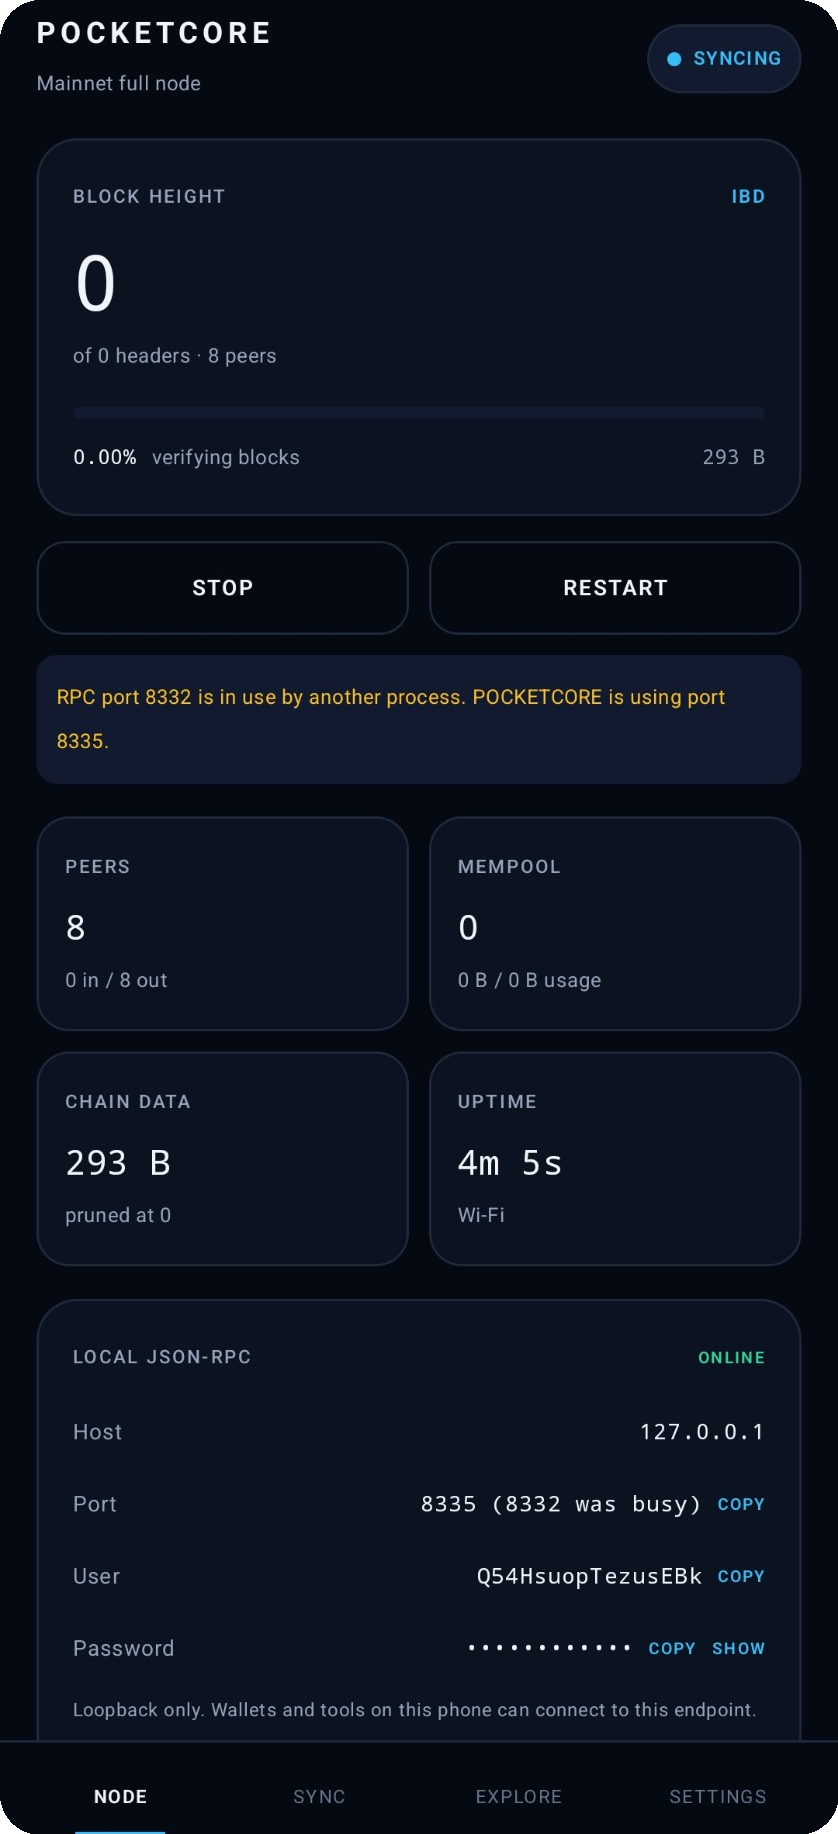
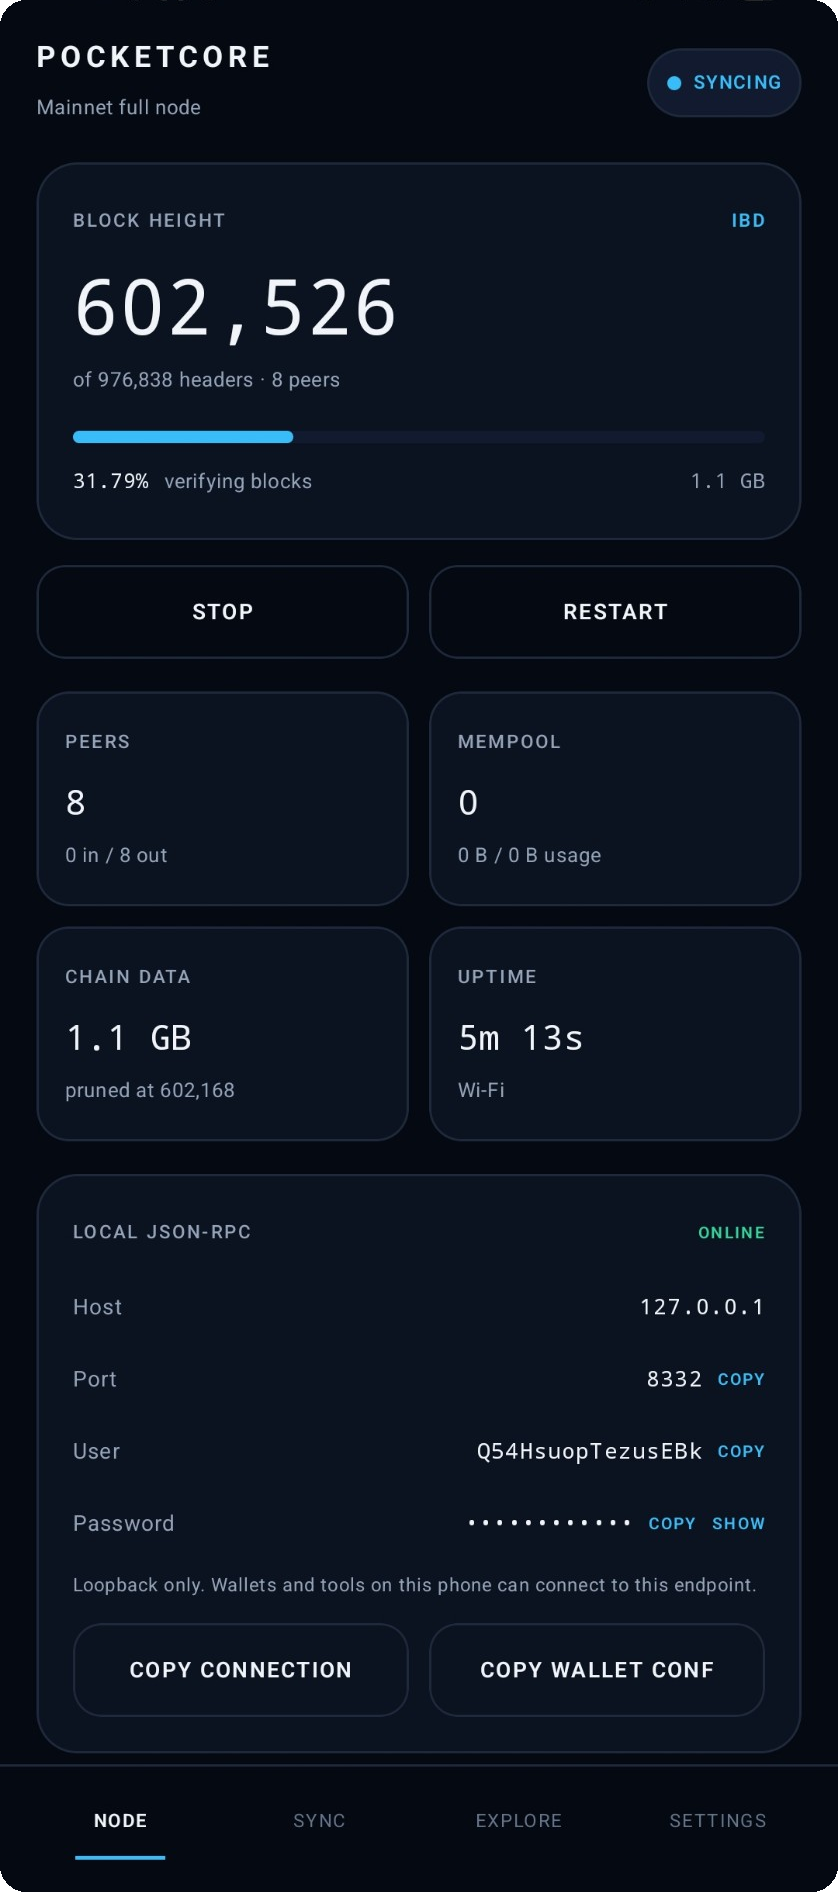
Refresh README screens from a live device capture
- docs/logo.png crops the tesseract master to a 9% margin, so the mark fills the
  tile instead of sitting at half size inside the app-icon field; the page draws
  it at 150 px and the hero screenshot at 300 px.
- The four tab screenshots come from a real sync in progress: the status bar and
  the three-button navigation bar are cut away, corners rounded, and the NODE
  shot (602,526 / 31.79% / port 8332 / ONLINE) replaces the older
  0-of-0-headers preview.
- New Screens section places NODE, SYNC, EXPLORE and SETTINGS side by side under
  captions, with the colorized status card (31.64% - Block #601,537 Syncing)
  below them. The Korean AM/PM marker the shade capture carried is painted back
  to card background, keeping the document English-only.
- tools/make-screenshots.py reproduces all six images from the raw captures.

diff --git a/tools/make-screenshots.py b/tools/make-screenshots.py
@@ -1,0 +1,143 @@
+#!/usr/bin/env python3
+"""Turn raw phone screenshots into the images the README shows.
+
+The captures come from a 1080 x 2640 Samsung device scaled to 838 x 2048 and
+carry the system status bar on top and the three-button navigation bar at the
+bottom. Neither belongs in a project screenshot, so every tab image is cut to
+the app's own window (y = 58 .. 1950 of the 2048 px frame) and its corners are
+rounded the way the app's cards are.
+
+The notification shade capture is used only for the colorized status card: the
+blue pill (`<percent> - Block #<height>`) is cut out on its own, and the Korean
+AM/PM marker the phone's locale adds to the timestamp is painted back to card
+background so the document stays English-only.
+
+Usage:
+    python3 tools/make-screenshots.py --node node.jpg --sync sync.jpg \\
+        --explore explore.jpg --settings settings.jpg --shade shade.jpg \\
+        --icon pocketcore-icon-tesseract2.png --out docs
+"""
+
+from __future__ import annotations
+
+import argparse
+from pathlib import Path
+
+import numpy as np
+from PIL import Image, ImageDraw
+
+# The app window inside a 838 x 2048 system screenshot of this device.
+APP_TOP = 58
+APP_BOTTOM = 1950
+SCREEN_RADIUS = 26
+
+# The colorized status card inside the same sized shade capture.
+CARD_BOX = (28, 795, 810, 920)
+# Columns of the card that hold the locale timestamp (after `Syncing`, before the
+# chevron), in card coordinates.
+TIMESTAMP_BOX = (539, 652)
+
+
+def rounded(image: Image.Image, radius: int) -> Image.Image:
+    image = image.convert("RGBA")
+    mask = Image.new("L", image.size, 0)
+    ImageDraw.Draw(mask).rounded_rectangle(
+        (0, 0, image.width - 1, image.height - 1), radius=radius, fill=255
+    )
+    image.putalpha(mask)
+    return image
+
+
+def screen(path: Path) -> Image.Image:
+    image = Image.open(path).convert("RGB")
+    if image.size != (838, 2048):
+        raise SystemExit(f"{path}: expected an 838 x 2048 capture, got {image.size}")
+    return rounded(image.crop((0, APP_TOP, image.width, APP_BOTTOM)), SCREEN_RADIUS)
+
+
+def erase_timestamp(card: Image.Image) -> Image.Image:
+    """Paint the locale timestamp back to card background.
+
+    The title line reads `<percent> - Block #<height>  Syncing  <locale> HH:MM`;
+    only the `Syncing` marker and everything left of it is kept, and the
+    timestamp between it and the chevron is removed. The text sits on a nearly
+    flat blue field, so each column is refilled by interpolating between a clean
+    band above and below it, which keeps the card's vertical gradient intact.
+    """
+    array = np.array(card.convert("RGB")).astype(np.float32)
+    left, right = TIMESTAMP_BOX
+    window = array[20:80, left:right]
+    bright = window.sum(axis=2) > 300
+    if not bright.any():
+        return card
+    rows = np.nonzero(bright.any(axis=1))[0]
+    top = 20 + rows.min() - 5
+    bottom = 20 + rows.max() + 5
+
+    above = array[top - 9:top - 1, left:right].mean(axis=0)
+    below = array[bottom + 1:bottom + 9, left:right].mean(axis=0)
+    span = np.linspace(0.0, 1.0, bottom - top + 1)[:, None, None]
+    fill = above[None, :, :] * (1 - span) + below[None, :, :] * span
+    array[top:bottom + 1, left:right] = fill
+    return Image.fromarray(np.clip(array, 0, 255).astype(np.uint8))
+
+
+def status_card(path: Path) -> Image.Image:
+    shade = Image.open(path).convert("RGB")
+    if shade.size != (838, 2048):
+        raise SystemExit(f"{path}: expected an 838 x 2048 capture, got {shade.size}")
+    card = shade.crop(CARD_BOX)
+    card = erase_timestamp(card)
+    return rounded(card, card.height // 2)
+
+
+def logo(path: Path, side: int = 384) -> Image.Image:
+    """Crop the master artwork to the mark plus a small margin.
+
+    The master is a 1254 px square with the tesseract drawn at roughly 41% of
+    its width; the README only needs the mark, so the dead field around it is
+    cut down to a 9% margin. 384 px is still 2.5x the 150 px the README draws
+    it at, without the megabyte a full 1254 px field would add to the repository.
+    """
+    master = Image.open(path).convert("RGB")
+    field = np.array(master).astype(int)
+    difference = np.abs(field - field[0, 0]).sum(axis=2)
+    ys, xs = np.nonzero(difference > 20)
+    left, right, top, bottom = xs.min(), xs.max(), ys.min(), ys.max()
+    extent = max(right - left, bottom - top)
+    margin = round(extent * 0.09)
+    centre_x, centre_y = (left + right) // 2, (top + bottom) // 2
+    half = extent // 2 + margin
+    box = (centre_x - half, centre_y - half, centre_x + half, centre_y + half)
+    tile = master.crop(box).resize((side, side), Image.LANCZOS)
+    return rounded(tile, round(side * 0.25))
+
+
+def main() -> None:
+    parser = argparse.ArgumentParser(description=__doc__)
+    parser.add_argument("--node", type=Path, required=True)
+    parser.add_argument("--sync", type=Path, required=True)
+    parser.add_argument("--explore", type=Path, required=True)
+    parser.add_argument("--settings", type=Path, required=True)
+    parser.add_argument("--shade", type=Path, required=True)
+    parser.add_argument("--icon", type=Path, required=True)
+    parser.add_argument("--out", type=Path, default=Path("docs"))
+    arguments = parser.parse_args()
+
+    arguments.out.mkdir(parents=True, exist_ok=True)
+    jobs = {
+        "preview.png": screen(arguments.node),
+        "screen-sync.png": screen(arguments.sync),
+        "screen-explore.png": screen(arguments.explore),
+        "screen-settings.png": screen(arguments.settings),
+        "screen-notification.png": status_card(arguments.shade),
+        "logo.png": logo(arguments.icon),
+    }
+    for name, image in jobs.items():
+        target = arguments.out / name
+        image.save(target, optimize=True)
+        print(f"{target}  {image.width}x{image.height}")
+
+
+if __name__ == "__main__":
+    main()

diff --git a/README.md b/README.md
@@ -1,5 +1,5 @@
 <p align="center">
-  <img src="docs/icon.png" width="130" alt="POCKETCORE icon: an isometric cyan tesseract with a glowing blue core, on deep navy">
+  <img src="docs/logo.png" width="150" alt="POCKETCORE logo: an isometric cyan tesseract with a glowing blue core, on deep navy">
 </p>
 
 <h1 align="center">POCKETCORE</h1>
@@ -16,7 +16,7 @@
 </p>
 
 <p align="center">
-  <img src="docs/preview.png" width="280" alt="POCKETCORE running Bitcoin Core 32.1 full node on Android">
+  <img src="docs/preview.png" width="300" alt="POCKETCORE running Bitcoin Core 32.1 full node on Android">
 </p>
 
 POCKETCORE bundles an actual
@@ -33,6 +33,31 @@ debug-signed, so installing a newer build over it requires removing the previous
 one first.
 
 ---
+
+## Screens
+
+Every figure on these screens is an RPC answer from the phone's own node.
+
+<table>
+  <tr>
+    <td align="center" width="25%"><img src="docs/preview.png" width="180" alt="NODE tab: block height 602,526 of 976,838 headers, 31.79% verifying blocks, 8 peers, local JSON-RPC online on port 8332"></td>
+    <td align="center" width="25%"><img src="docs/screen-sync.png" width="180" alt="SYNC tab: validated chainstate at 31.76%, AssumeUTXO snapshot picker and pruned storage figures"></td>
+    <td align="center" width="25%"><img src="docs/screen-explore.png" width="180" alt="EXPLORE tab: chain status with the best block, block lookup and transaction lookup against this phone's own node"></td>
+    <td align="center" width="25%"><img src="docs/screen-settings.png" width="180" alt="SETTINGS tab: network selector, watch-only descriptor field, prune size and data directory paths"></td>
+  </tr>
+  <tr>
+    <td align="center"><sub><b>NODE</b></sub></td>
+    <td align="center"><sub><b>SYNC</b></sub></td>
+    <td align="center"><sub><b>EXPLORE</b></sub></td>
+    <td align="center"><sub><b>SETTINGS</b></sub></td>
+  </tr>
+  <tr>
+    <td align="center" colspan="4"><img src="docs/screen-notification.png" width="620" alt="POCKETCORE status card in the notification shade: 31.64% - Block #601,537 Syncing, with a progress bar"></td>
+  </tr>
+  <tr>
+    <td align="center" colspan="4"><sub>The colorized foreground-service status card while the chain downloads</sub></td>
+  </tr>
+</table>
 
 ## What it does
 
@@ -148,7 +173,7 @@ app/src/main/java/com/jbitmstr/pocketcore/
   ui/SplashScreen.kt           midnight-blue animated launch overlay
 app/src/main/jniLibs/arm64-v8a/libbitcoind.so   the real Bitcoin Core daemon
 app/src/main/assets/ipv4_country.bin            offline IPv4 -> country ranges
-tools/                         icon, GeoIP asset and RPC verification scripts
+tools/                         icon, screenshot, GeoIP asset and RPC verification scripts
 verify-english.py              fails if any non-English text enters the repo
 ```
 
